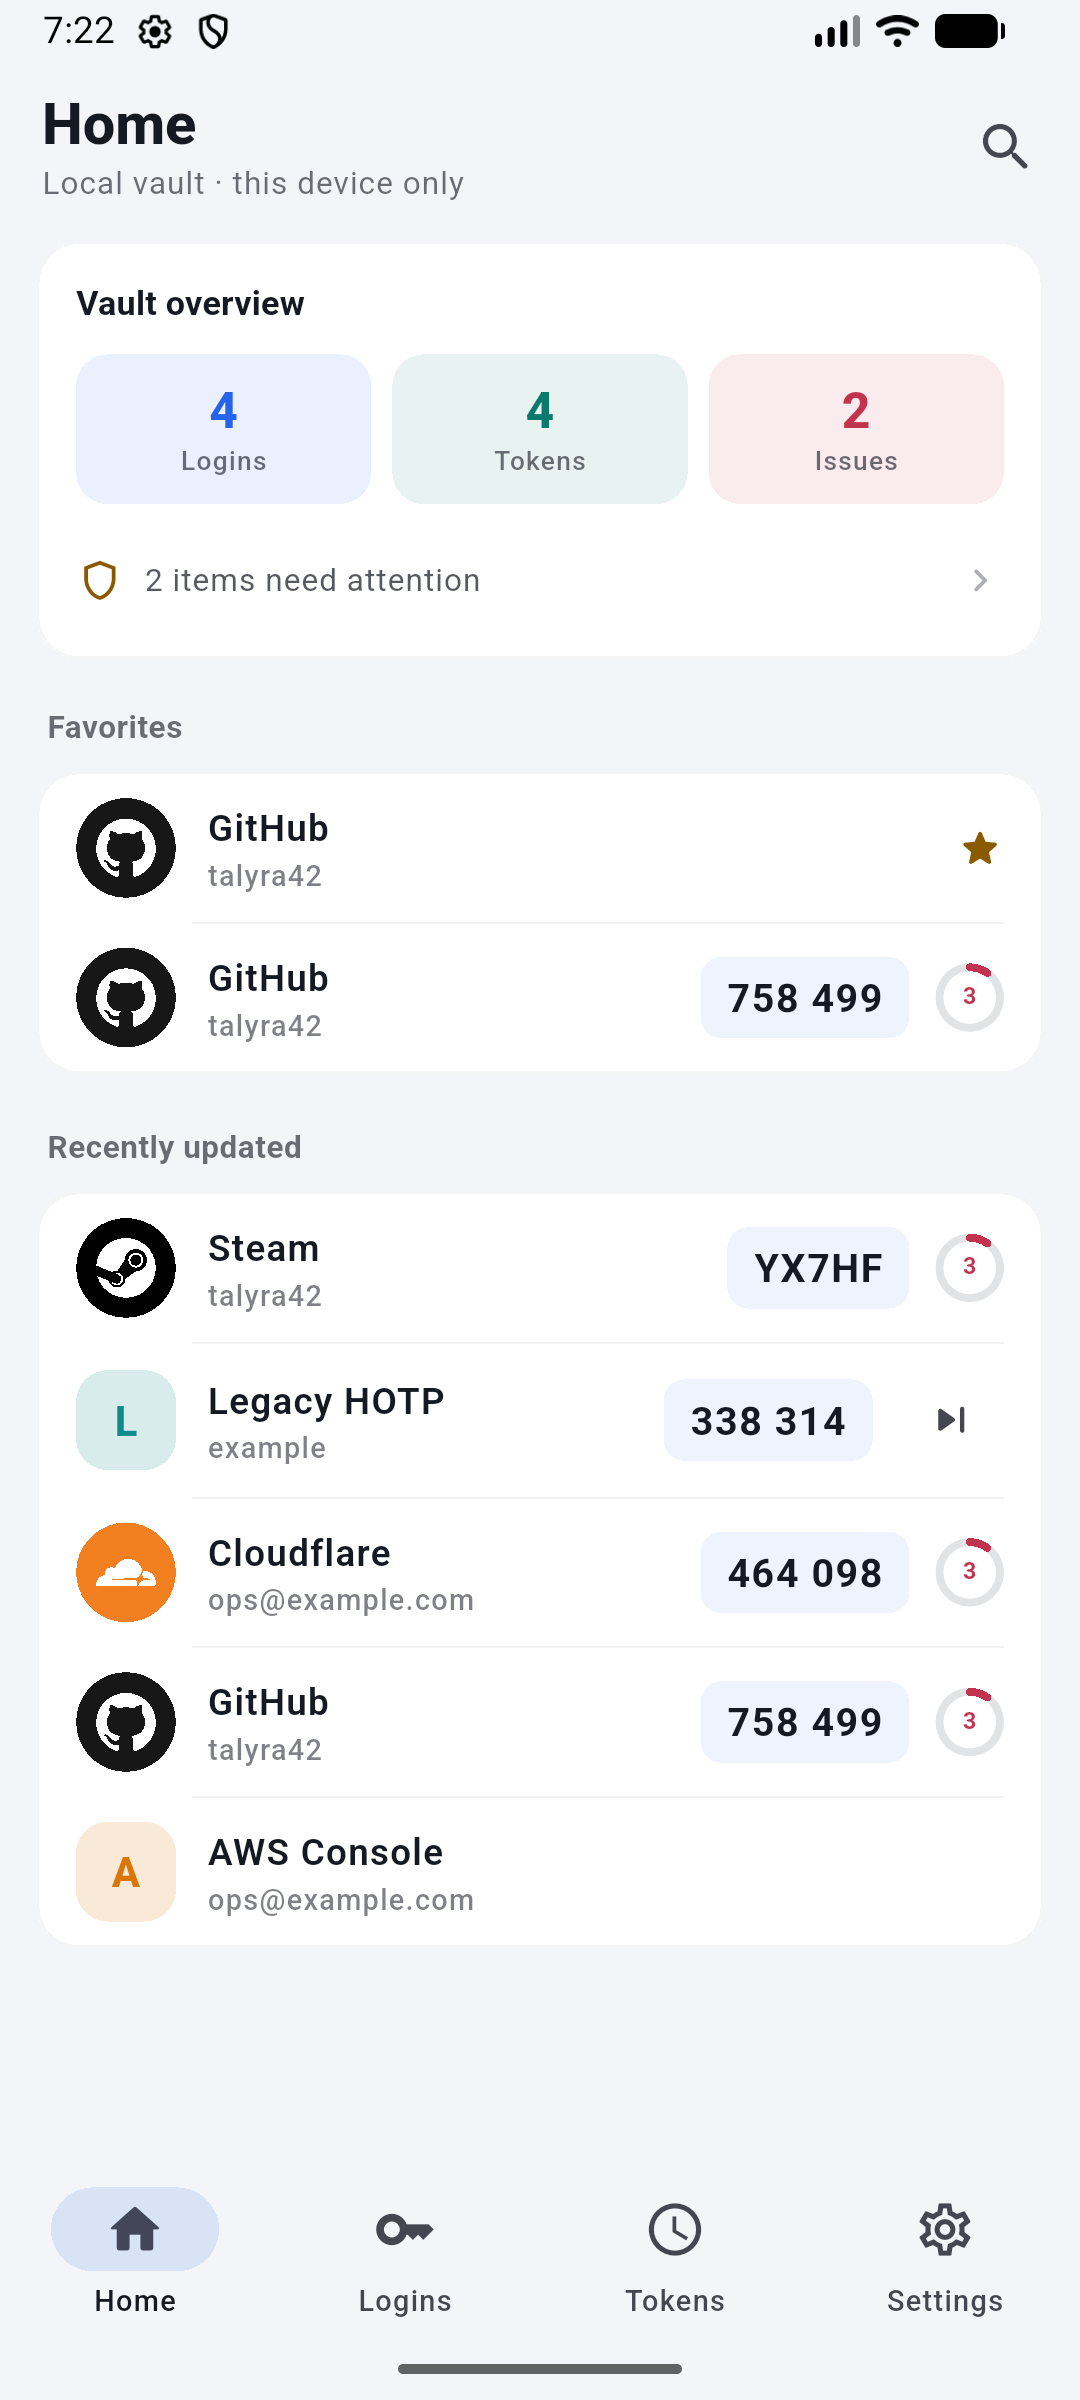
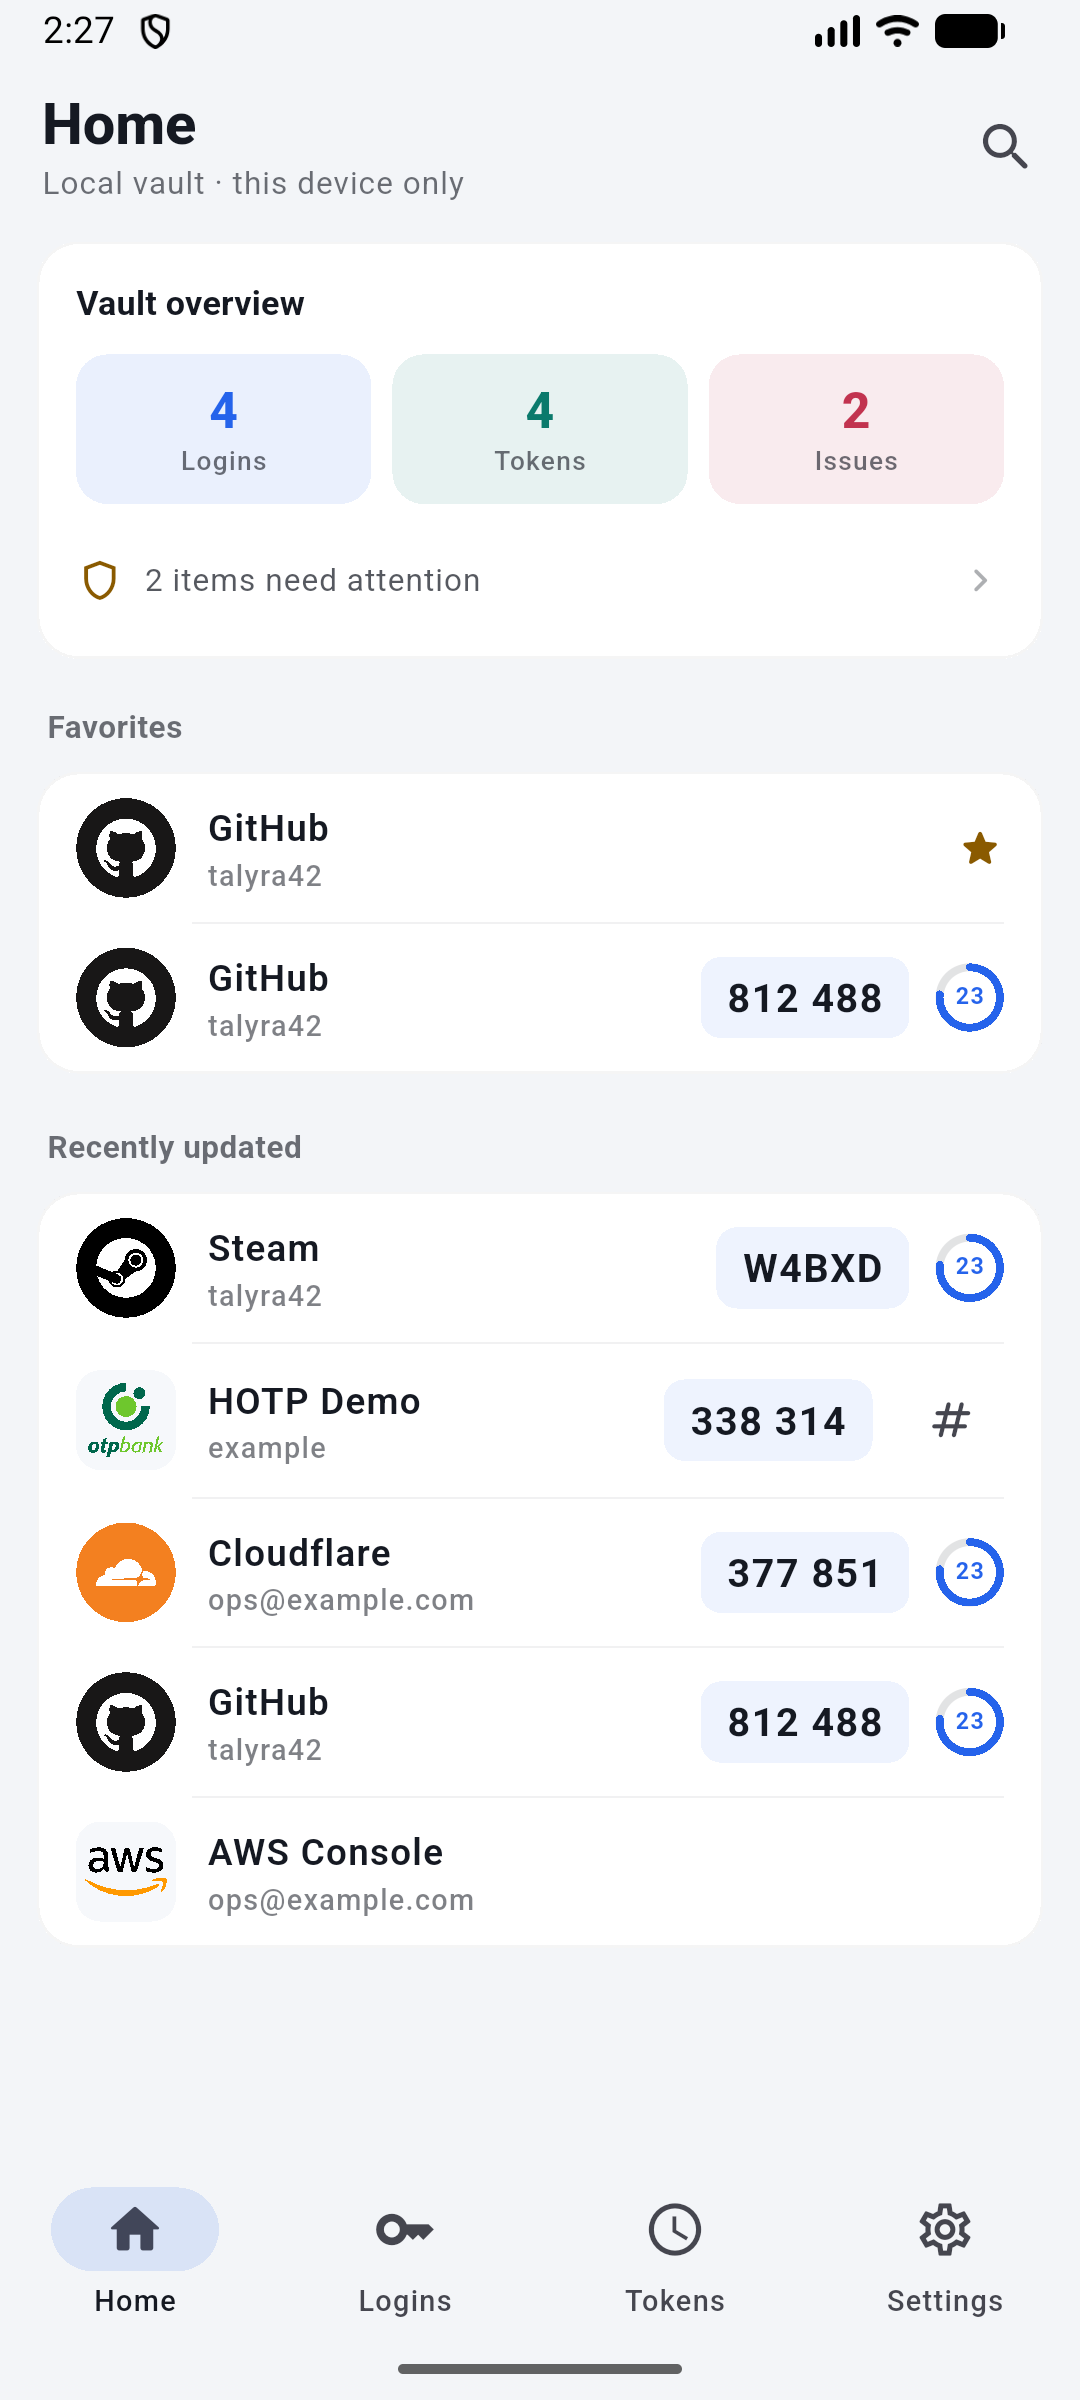
docs: prepare v1.2.0 release

diff --git a/README.md b/README.md
@@ -35,6 +35,11 @@ from **Settings → About**.
     <td align="center"><img src="docs/screenshots/editor-dark.png" width="220" alt="Editor, dark" /><br /><sub>Editor</sub></td>
     <td align="center"><img src="docs/screenshots/settings-dark.png" width="220" alt="Settings, dark" /><br /><sub>Settings</sub></td>
   </tr>
+  <tr>
+    <td align="center"><img src="docs/screenshots/icon-library.png" width="220" alt="Icon library, dark" /><br /><sub>Icon library</sub></td>
+    <td align="center"><img src="docs/screenshots/icon-picker.png" width="220" alt="Icon picker, dark" /><br /><sub>Icon picker</sub></td>
+    <td align="center"><img src="docs/screenshots/token-add-menu.png" width="220" alt="Add token menu, dark" /><br /><sub>Add token</sub></td>
+  </tr>
 </table>
 
 ## Features
@@ -178,7 +183,7 @@ a device. The full process is in
 
 ## Project status
 
-Current release: **1.1.1**.
+Current release: **1.2.0**.
 
 Only Android is supported. The vault payload is `schemaVersion 2`. The
 `android/` directory is the sole delivery target;

diff --git a/docs/release-notes/v1.2.0.md b/docs/release-notes/v1.2.0.md
@@ -1,0 +1,16 @@
+## Highlights
+
+- The built-in icon set grows from 3,467 to 6,810 logos: a full-color pack of service logos and
+  a monochrome 2FA pack join the existing badge pack.
+- The icon picker labels every icon and marks which pack it comes from.
+- Settings → Icons → Browse icons opens a read-only library of every bundled icon, with search,
+  a per-pack filter, and a large preview on tap.
+- Codes animate when they roll over. Settings → Tokens → Code transition offers Dissolve (default),
+  Roll, or Off, and the upcoming code fades in.
+- With "Show next code" on, a hidden code now shows dots on both lines instead of dropping the
+  second one.
+- The token page's add button staggers its actions into place and turns its plus into a cross.
+
+Install this build over 1.1.1; the vault and backup format is unchanged.
+
+SHA-256 is published next to the APK.

diff --git a/CHANGELOG.md b/CHANGELOG.md
@@ -4,6 +4,8 @@ All notable user-visible changes are recorded here. Internal refactors, tests an
 
 ## [Unreleased]
 
+## [1.2.0] - 2026-11-24
+
 ### Added
 
 - The built-in icon set grows from 3,467 to 6,810 logos with two additional packs: full-color
